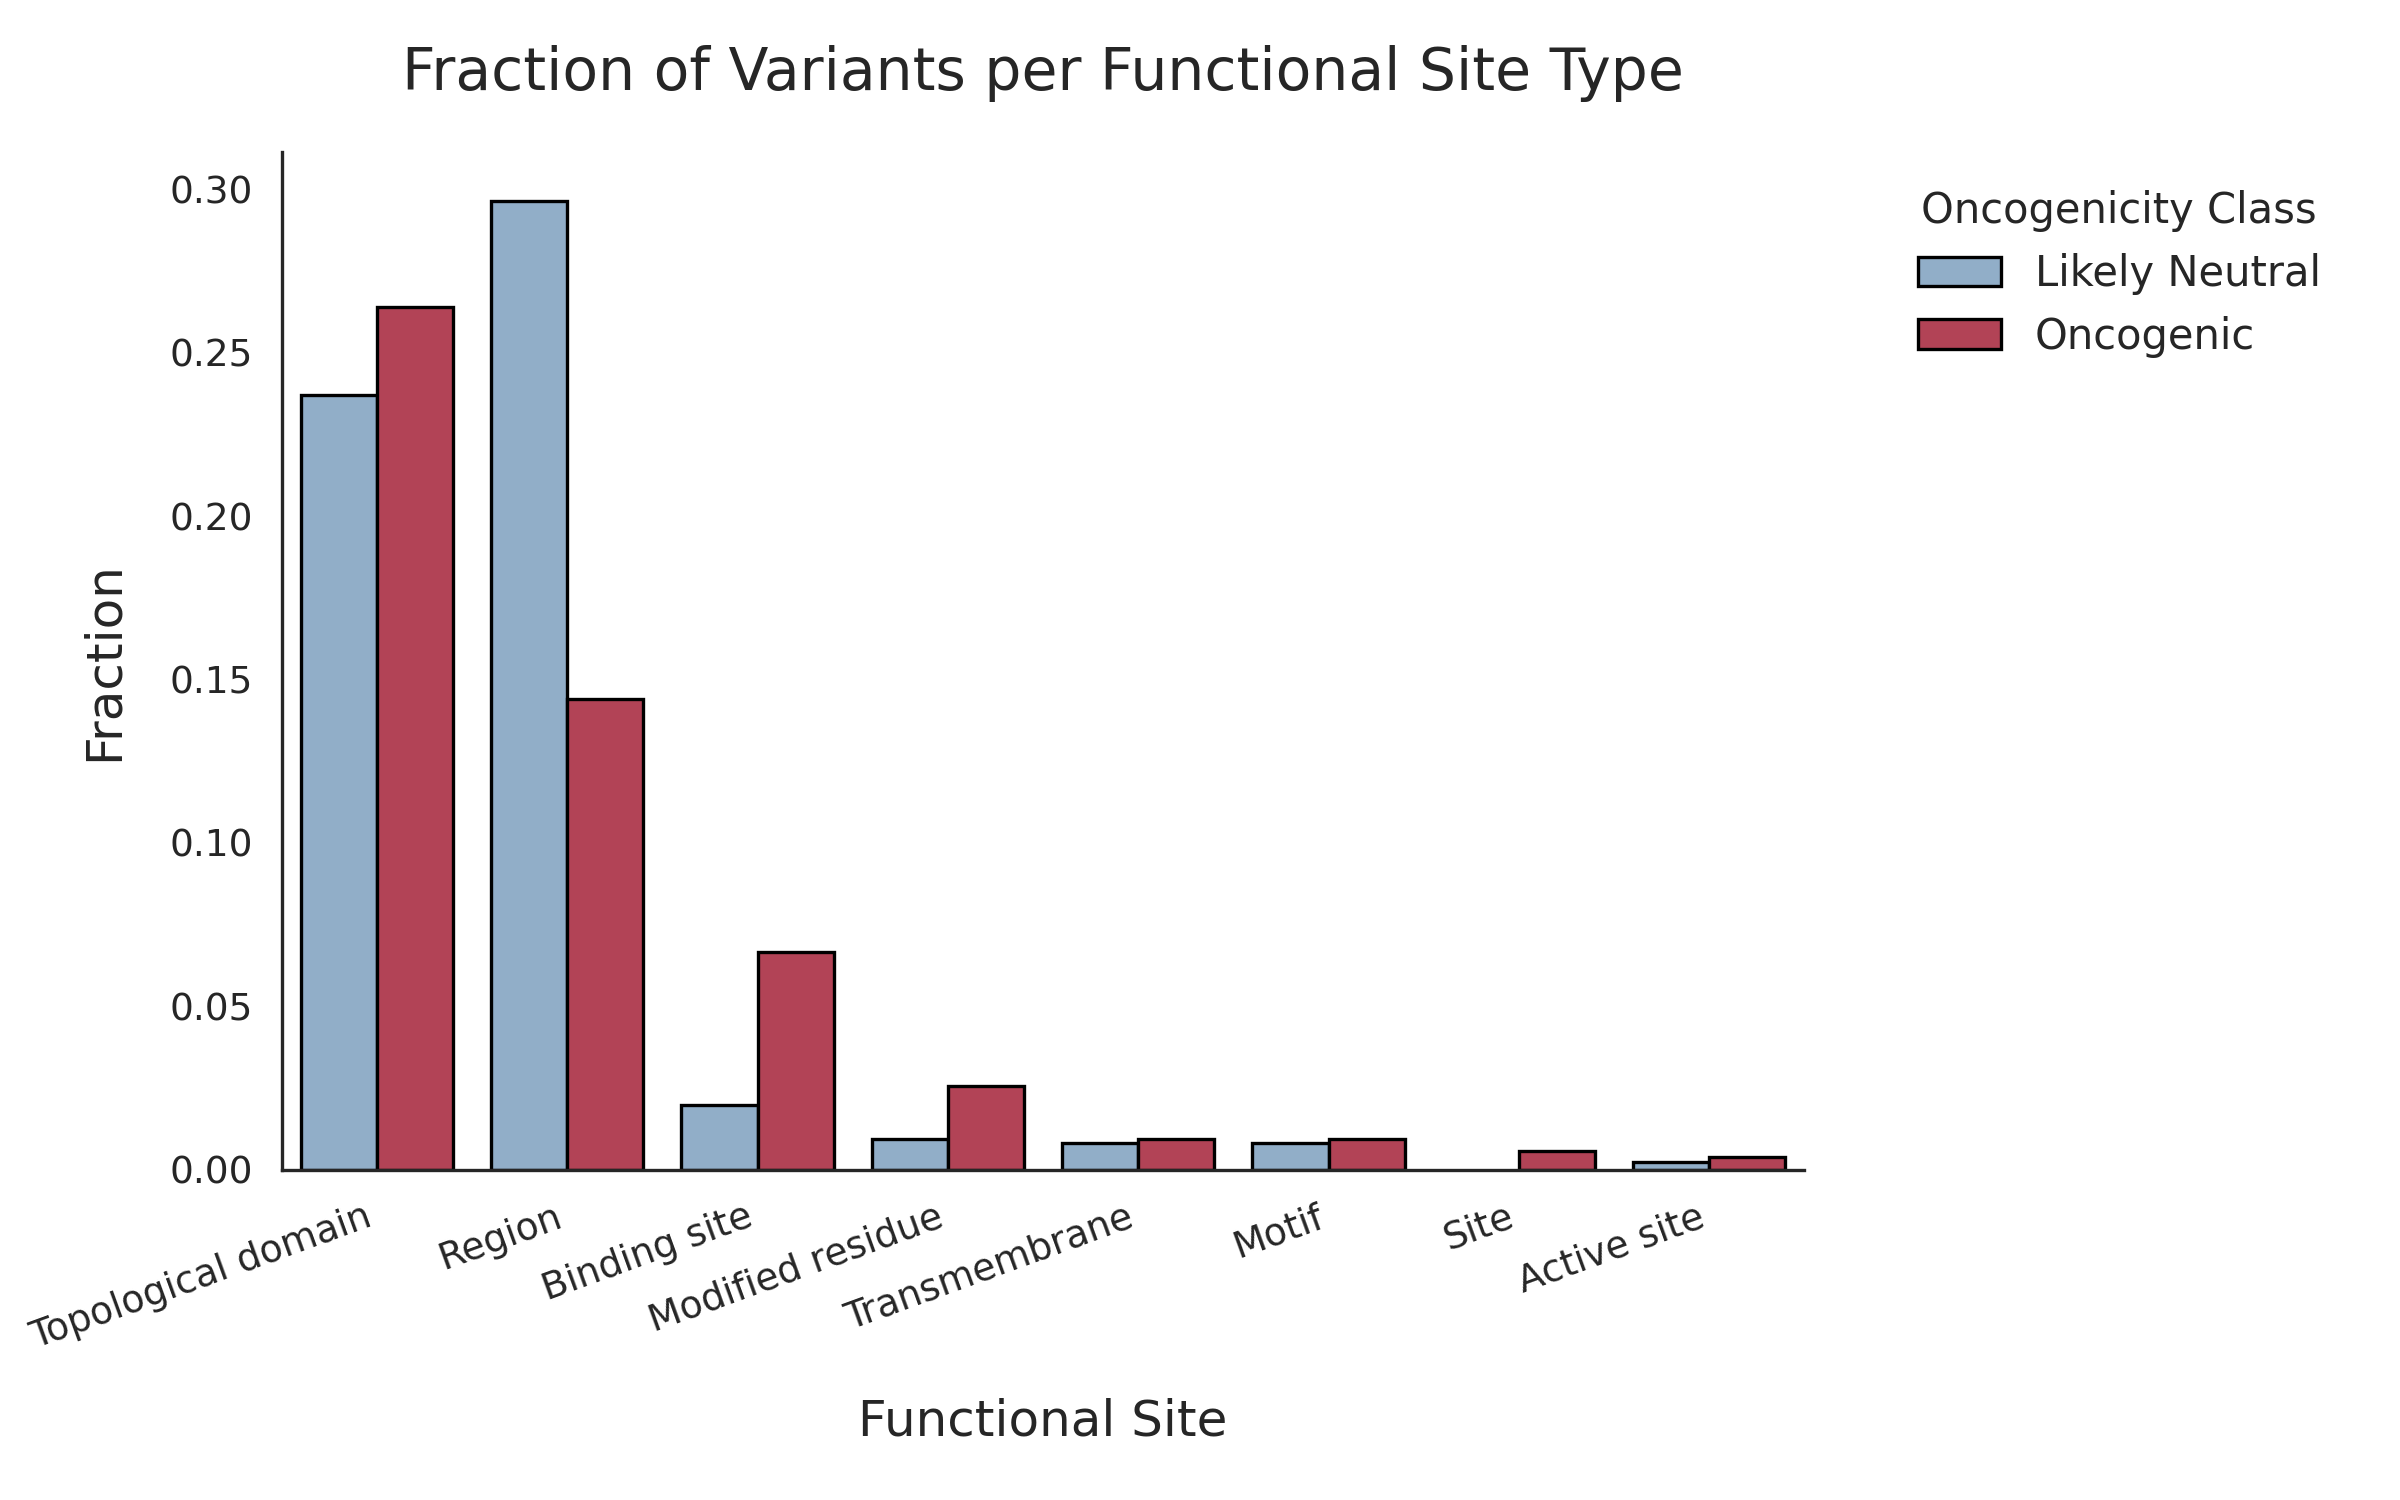
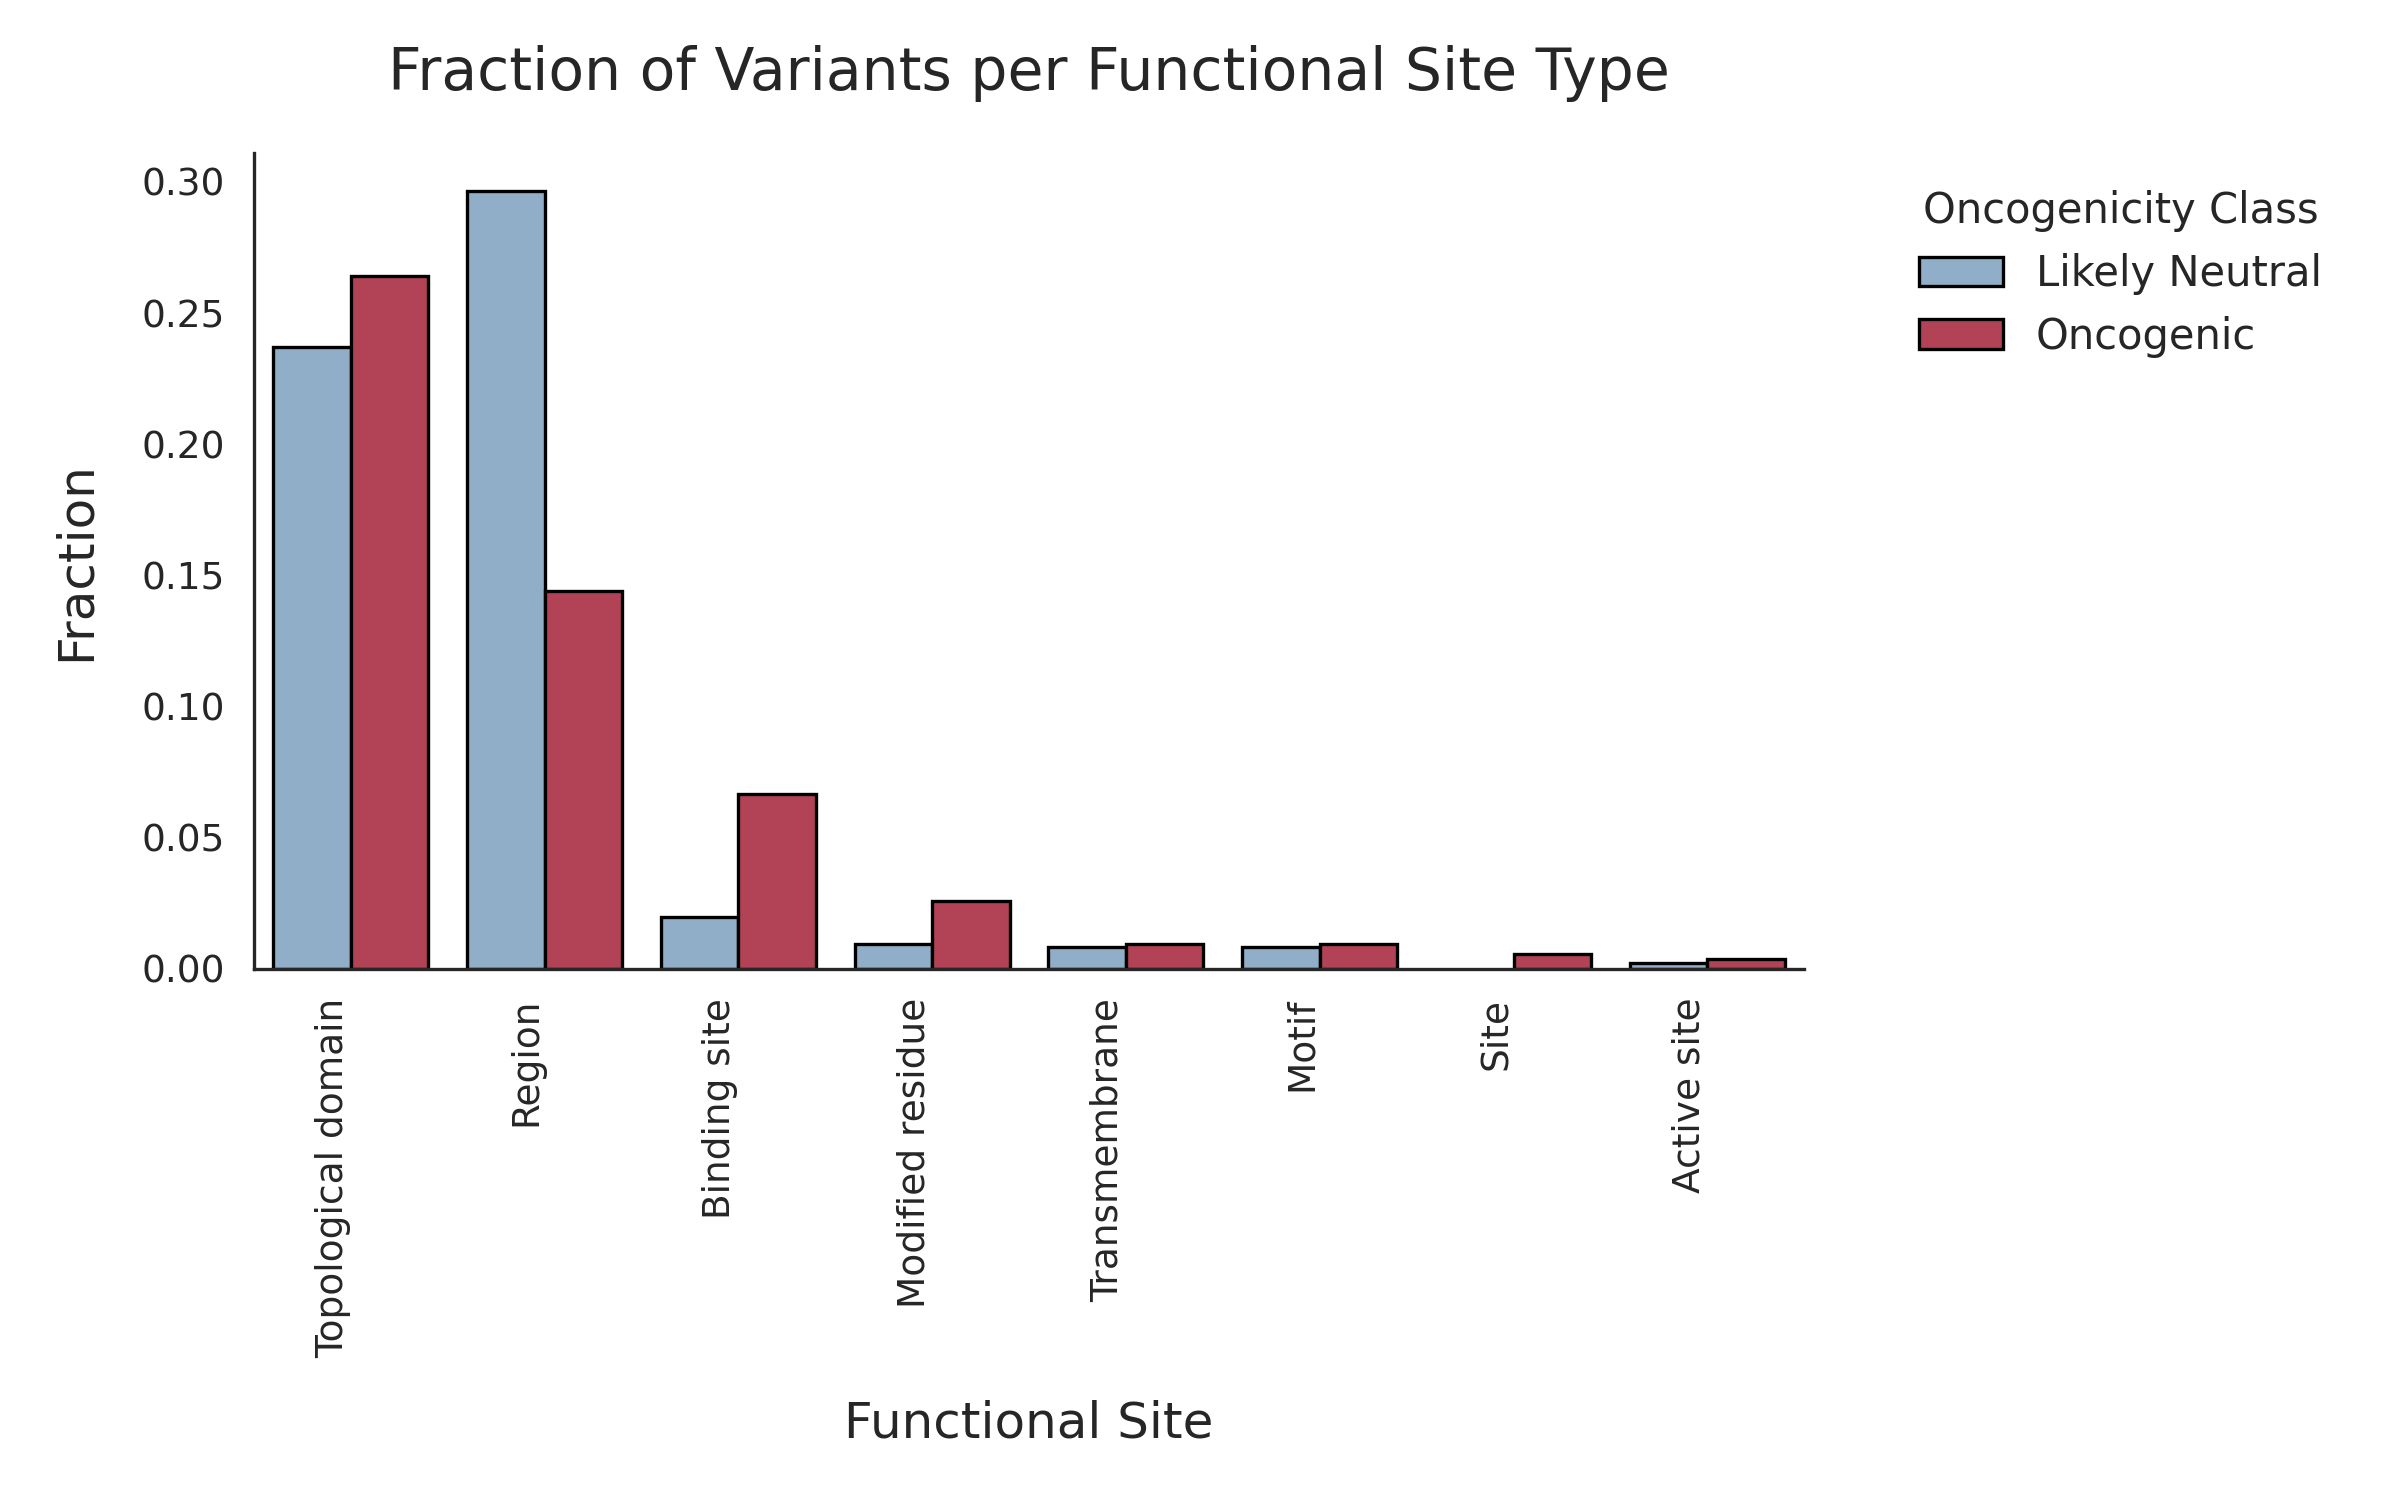
update readme

diff --git a/scripts/EDA/functional_sites.py b/scripts/EDA/functional_sites.py
@@ -230,7 +230,7 @@ sns.despine()
 plt.title("Fraction of Variants per Functional Site Type", fontsize=14, pad=15)
 plt.xlabel("Functional Site", fontsize=12, labelpad=10)
 plt.ylabel("Fraction", fontsize=12, labelpad=10)
-plt.xticks(rotation=40, ha="right", fontsize=9)
+plt.xticks(rotation=90, ha="right", fontsize=9)
 plt.yticks(fontsize=9)
 plt.legend(title="Oncogenicity Class", bbox_to_anchor=(1.05, 1), loc='upper left', frameon=False)
 

diff --git a/README.md b/README.md
@@ -12,6 +12,15 @@ The classification evidence includes:
 - Functional score assays from MaveDB 
 - Null variants in Tumor Suppressor genes 
 
+<figure>
+  <p align="center">
+    <img src="scripts/EDA/plots/proteindomains/heatmap_oncogenic_fraction.png" width="600">
+  </p>
+  <figcaption align="center">
+    <b> Figure 1: Fraction of oncogenic variants across different genes and Pfam protein domains. 
+  </figcaption>
+</figure>  
+
 ## Requirements 💻
 - Python 3.10+
 
